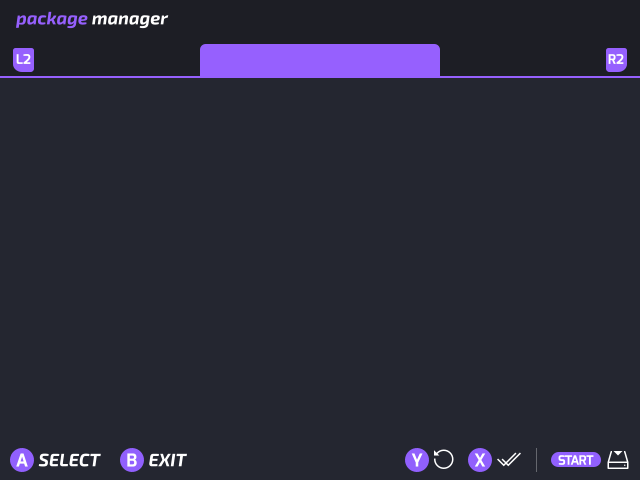
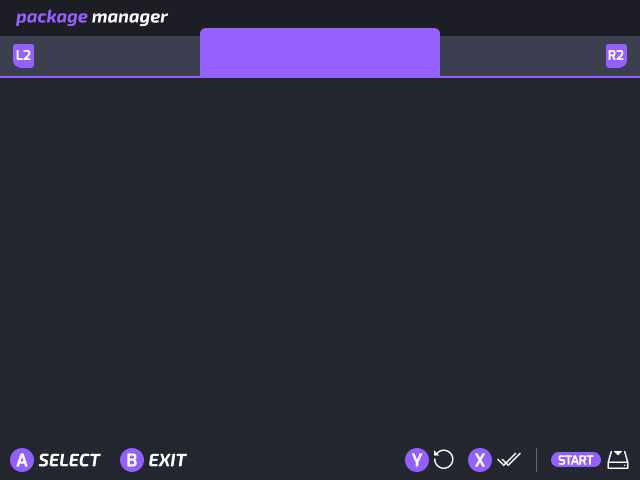
Pac-Man: Bigger font and active tab

Changed region(s): [[0.0, 0.0, 1.0, 0.1562]]

diff --git a/src/packageManager/packageManager.c b/src/packageManager/packageManager.c
@@ -60,7 +60,7 @@ static SDL_Surface *video = NULL, *screen = NULL, *surfaceBackground = NULL,
                    *surfaceCross = NULL;
 
 static TTF_Font *font18 = NULL;
-static TTF_Font *font21 = NULL;
+static TTF_Font *font25 = NULL;
 static TTF_Font *font35 = NULL;
 
 static SDL_Color color_white = {255, 255, 255};
@@ -334,7 +334,7 @@ SDL_Surface *createLabelSurface(Package *package)
     }
 
     SDL_Surface *label_surface =
-        TTF_RenderUTF8_Blended(font21, label_text, color_white);
+        TTF_RenderUTF8_Blended(font25, label_text, color_white);
     SDL_SetAlpha(label_surface, 0, 0); /* important */
     SDL_Rect label_pos = {0, 0};
     SDL_BlitSurface(label_surface, NULL, textbox, &label_pos);
@@ -346,7 +346,7 @@ SDL_Surface *createLabelSurface(Package *package)
 
     if (strlen(parens) > 0) {
         SDL_Surface *parens_surface =
-            TTF_RenderUTF8_Blended(font21, parens, color_white);
+            TTF_RenderUTF8_Blended(font25, parens, color_white);
         SDL_SetAlpha(parens_surface, 0, 0); /* important */
         surfaceSetAlpha(parens_surface, 120);
         SDL_Rect parens_pos = {label_surface->w, 0};
@@ -444,11 +444,9 @@ void renderTabName(const char *name, int center_x, bool active,
     snprintf(name_str, STR_MAX - 1, has_changes ? "%s*" : "%s", name);
 
     SDL_Surface *tab_name =
-        TTF_RenderUTF8_Blended(active ? font21 : font18, name_str, color_white);
-    SDL_Rect tab_rect = {center_x - tab_name->w / 2, 58 - tab_name->h / 2};
-
-    if (!active)
-        surfaceSetAlpha(tab_name, 100);
+        TTF_RenderUTF8_Blended(active ? font25 : font18, name_str, color_white);
+    SDL_Rect tab_rect = {center_x - tab_name->w / 2,
+                         (active ? 53 : 56) - 2 - tab_name->h / 2};
 
     SDL_BlitSurface(tab_name, NULL, screen, &tab_rect);
     SDL_FreeSurface(tab_name);
@@ -551,7 +549,7 @@ int main(int argc, char *argv[])
     surfaceCross = IMG_Load("/mnt/SDCARD/.tmp_update/res/toggle-off.png");
 
     font18 = TTF_OpenFont("/customer/app/Exo-2-Bold-Italic.ttf", 18);
-    font21 = TTF_OpenFont("/customer/app/Exo-2-Bold-Italic.ttf", 21);
+    font25 = TTF_OpenFont("/customer/app/Exo-2-Bold-Italic.ttf", 25);
     font35 = TTF_OpenFont("/customer/app/Exo-2-Bold-Italic.ttf", 35);
 
     SDL_Surface *loadingScreen = IMG_Load("res/loading.png");
@@ -756,8 +754,8 @@ int main(int argc, char *argv[])
                     sprintf(status_str + len, " −%d", removals_count);
                 }
                 SDL_Surface *status =
-                    TTF_RenderUTF8_Blended(font21, status_str, color_white);
-                SDL_Rect status_rect = {620 - status->w, 20 - status->h / 2};
+                    TTF_RenderUTF8_Blended(font18, status_str, color_white);
+                SDL_Rect status_rect = {620 - status->w, 16 - status->h / 2};
                 SDL_BlitSurface(status, NULL, screen, &status_rect);
                 SDL_FreeSurface(status);
             }
@@ -851,7 +849,7 @@ int main(int argc, char *argv[])
 #endif
 
     TTF_CloseFont(font18);
-    TTF_CloseFont(font21);
+    TTF_CloseFont(font25);
     TTF_CloseFont(font35);
     TTF_Quit();
     SDL_FreeSurface(reinstall_surface);
